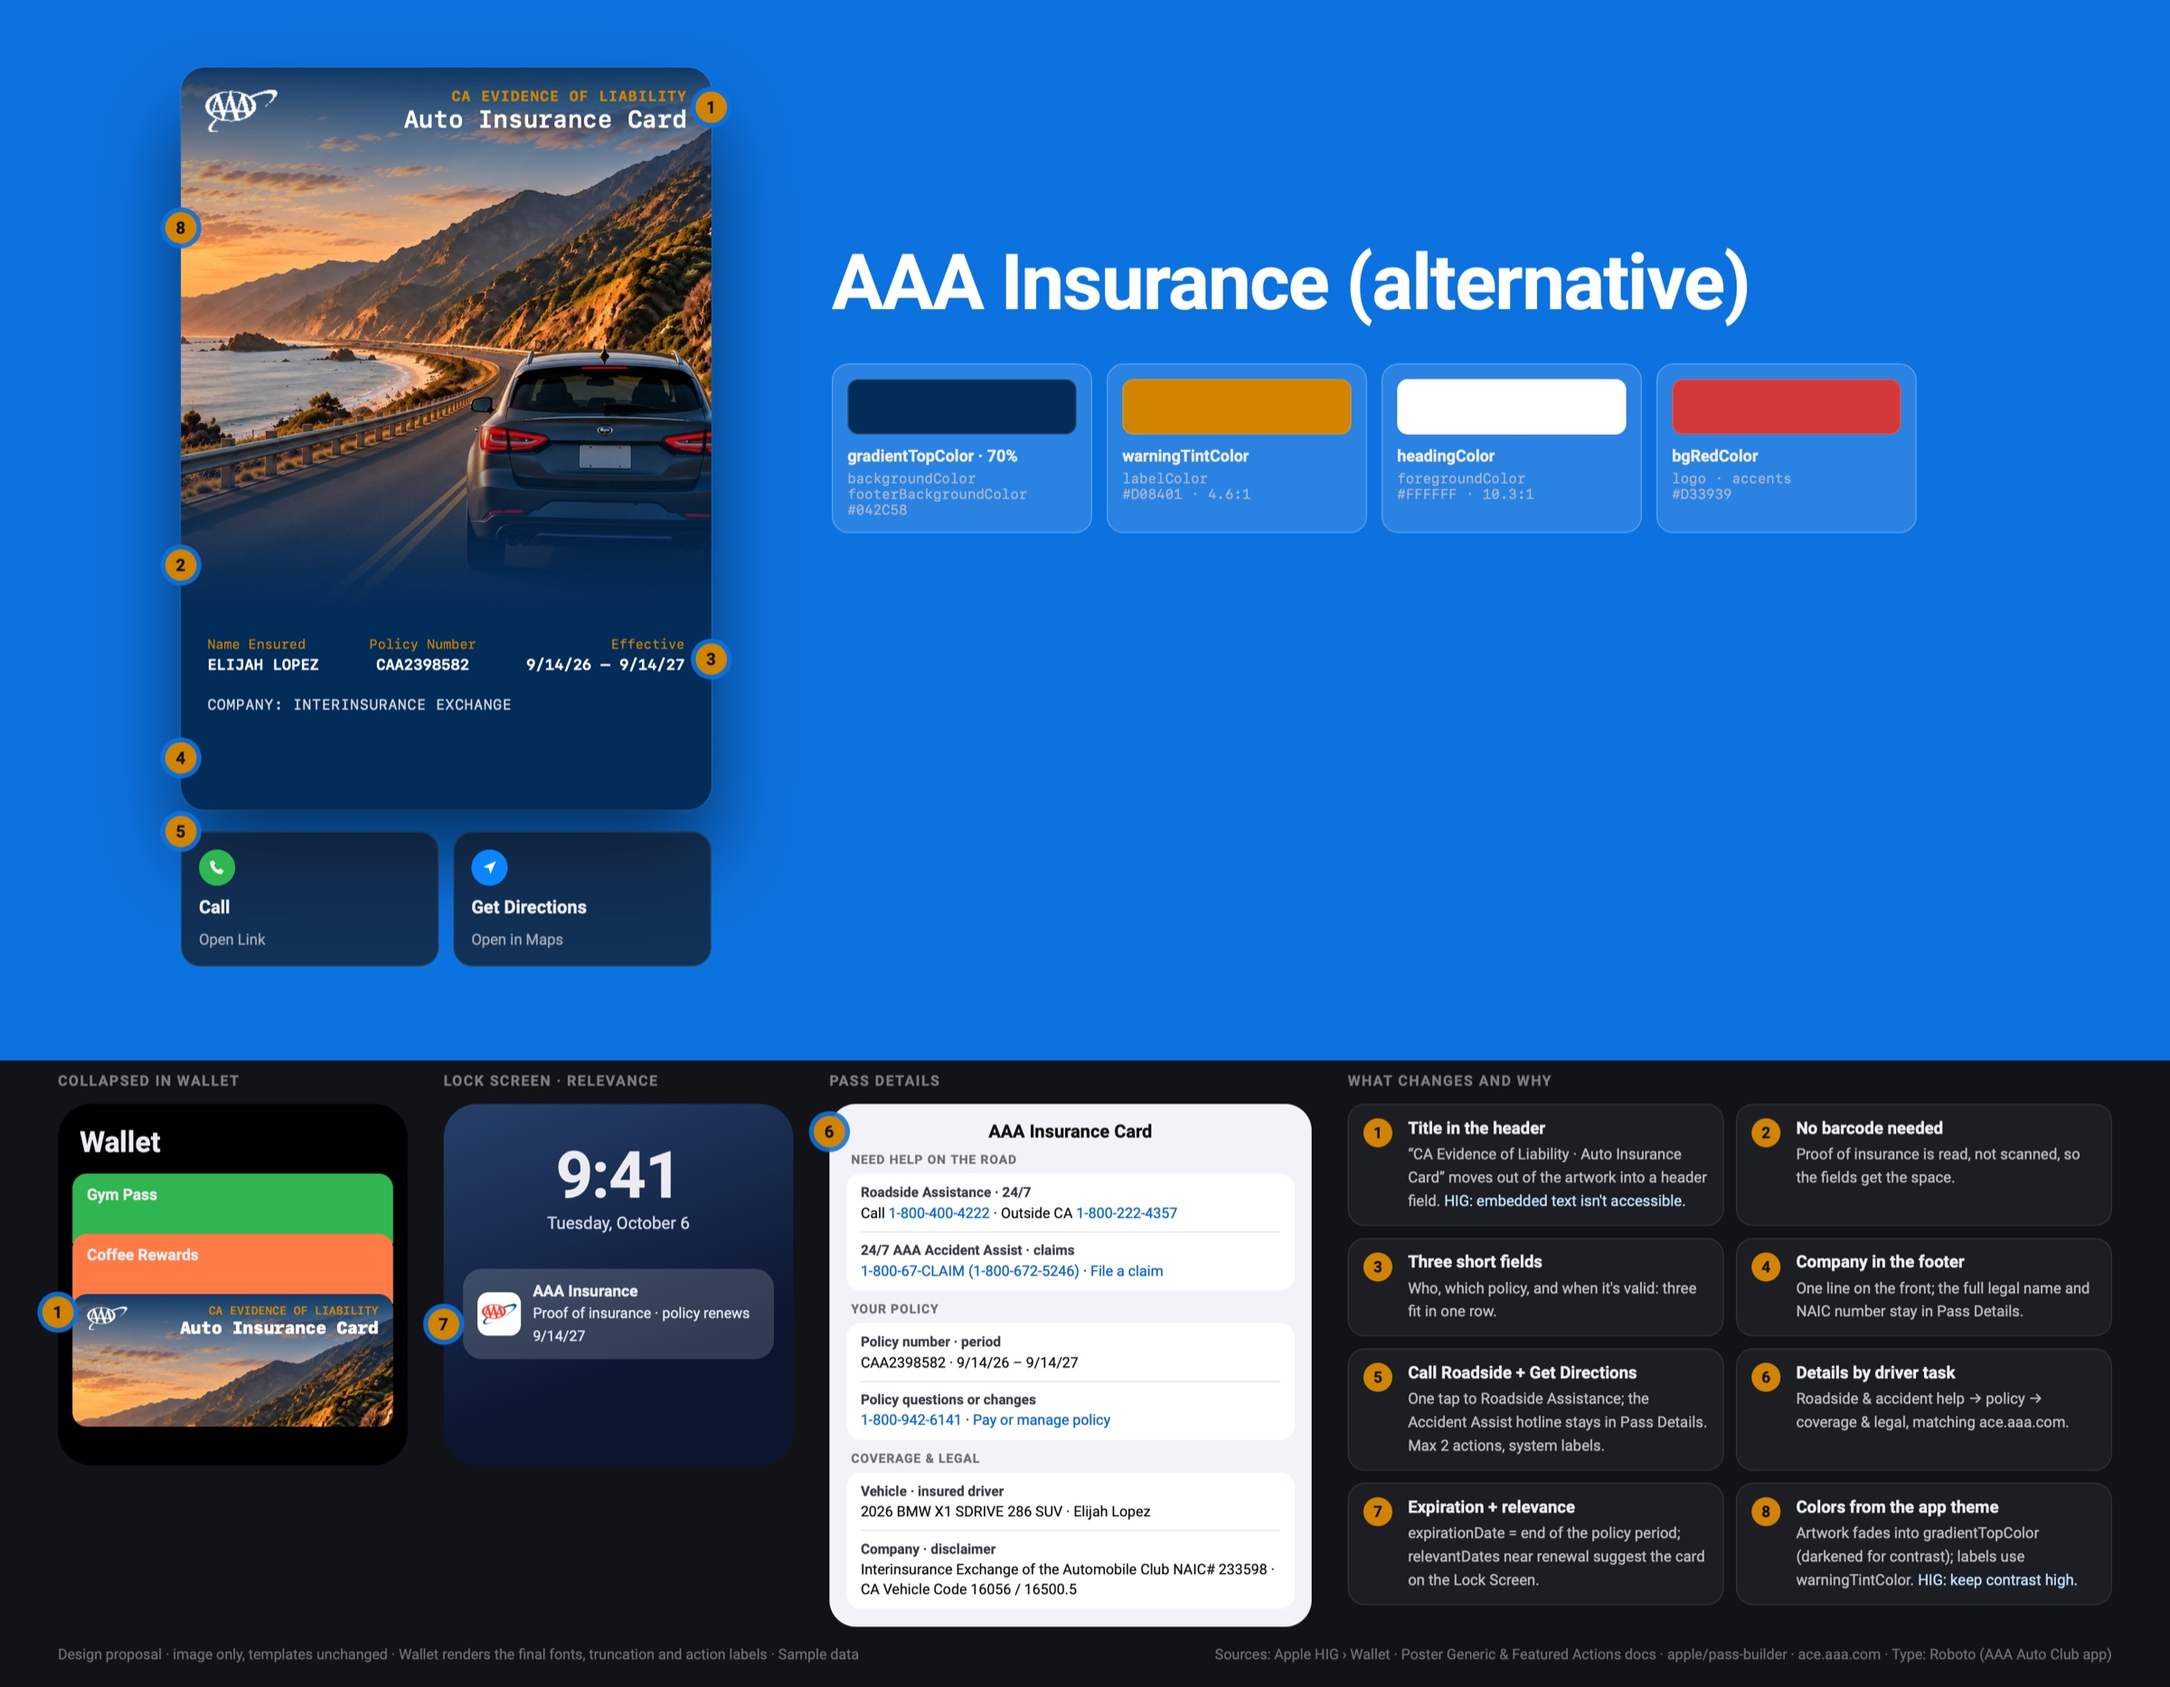
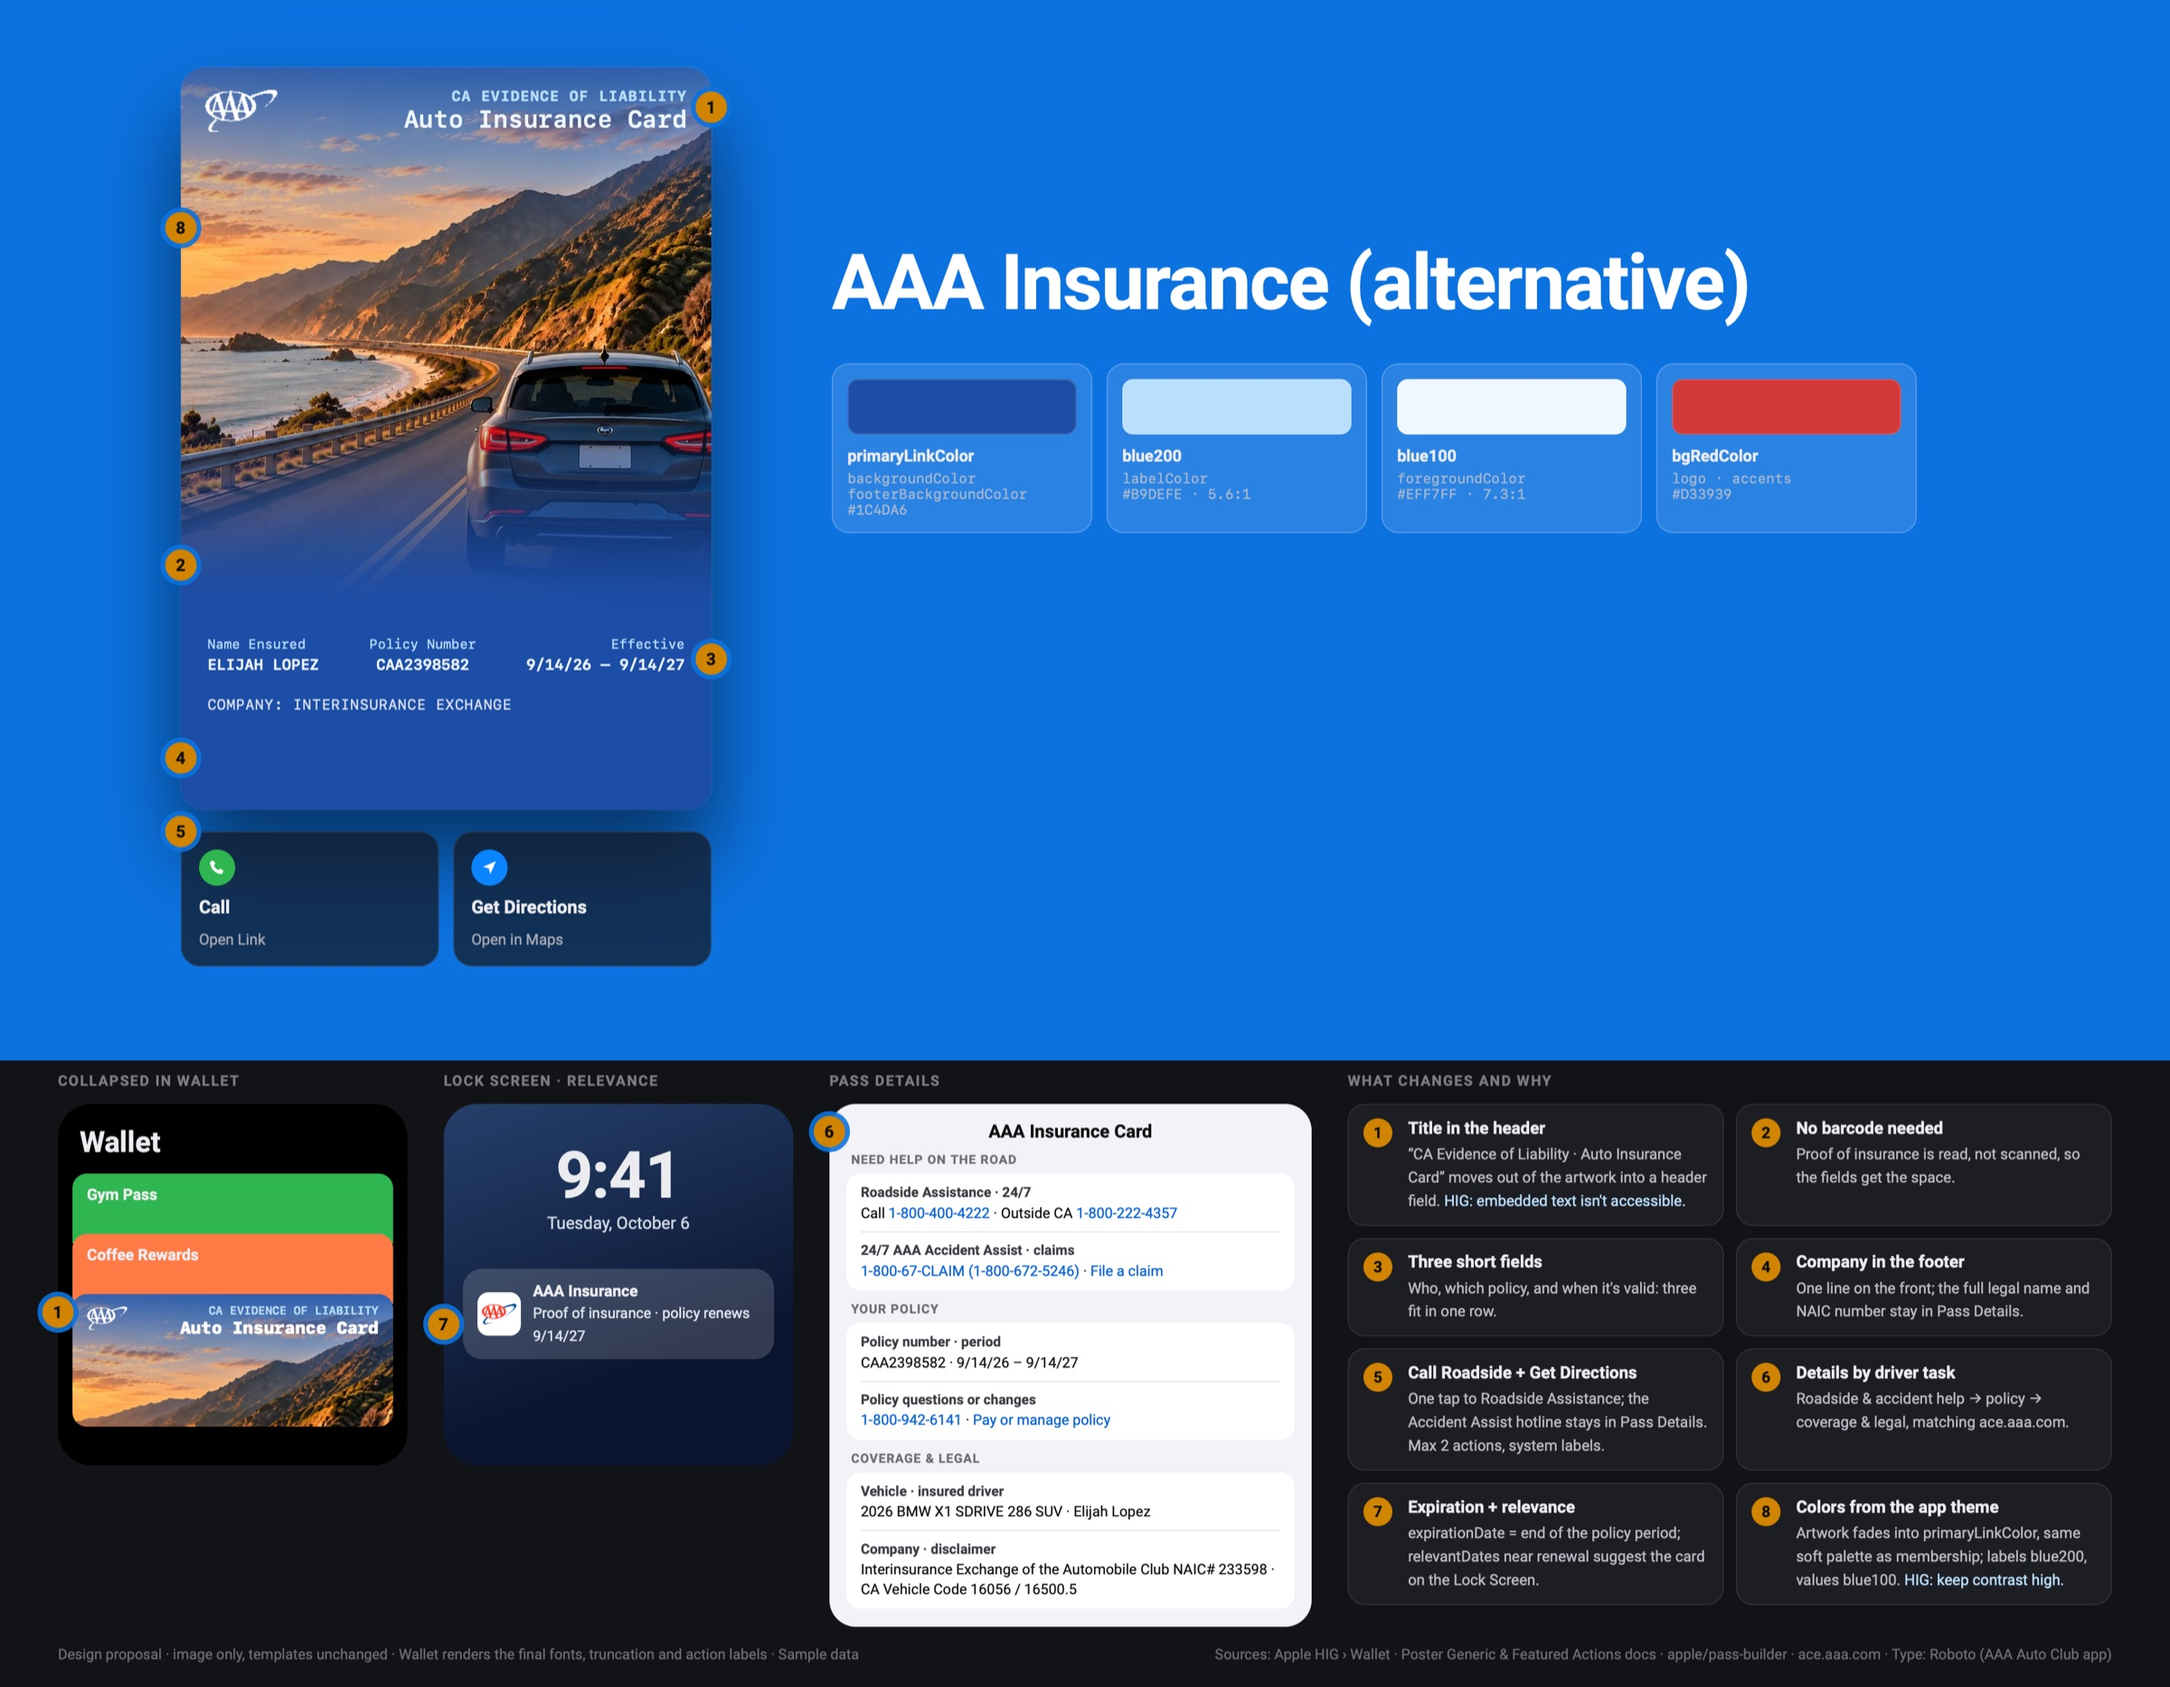
Softer alternative palette from the app theme (primaryLinkColor, blue200, blue100)
UX found the navy/white and amber versions too high contrast.

diff --git a/index.html b/index.html
@@ -321,7 +321,7 @@ button,select{font:inherit;color:inherit}
     <section class="proposal" aria-labelledby="proposalTitle">
       <div class="proposal-h">
         <div><h2 id="proposalTitle">Design proposals <span class="credit">(the image canvas below and strings made by Claude, i just did the pass design and the web)</span></h2>
-        <p>A different take on both cards: the photo fades into the AAA app’s navy and all the colors come straight from the app’s theme. Everything here is stuff Apple Wallet actually supports. Grab one with Download template and drag it onto this page (or open it in Pass Designer), or just hit Open in viewer. The Membership and Insurance cards up top stay as they are.</p></div>
+        <p>A different take on both cards: the photo fades into the AAA app’s blue and all the colors come straight from the app’s theme, softened for lower contrast. Everything here is stuff Apple Wallet actually supports. Grab one with Download template and drag it onto this page (or open it in Pass Designer), or just hit Open in viewer. The Membership and Insurance cards up top stay as they are.</p></div>
       </div>
       <div class="proposal-grid">
         <figure>
